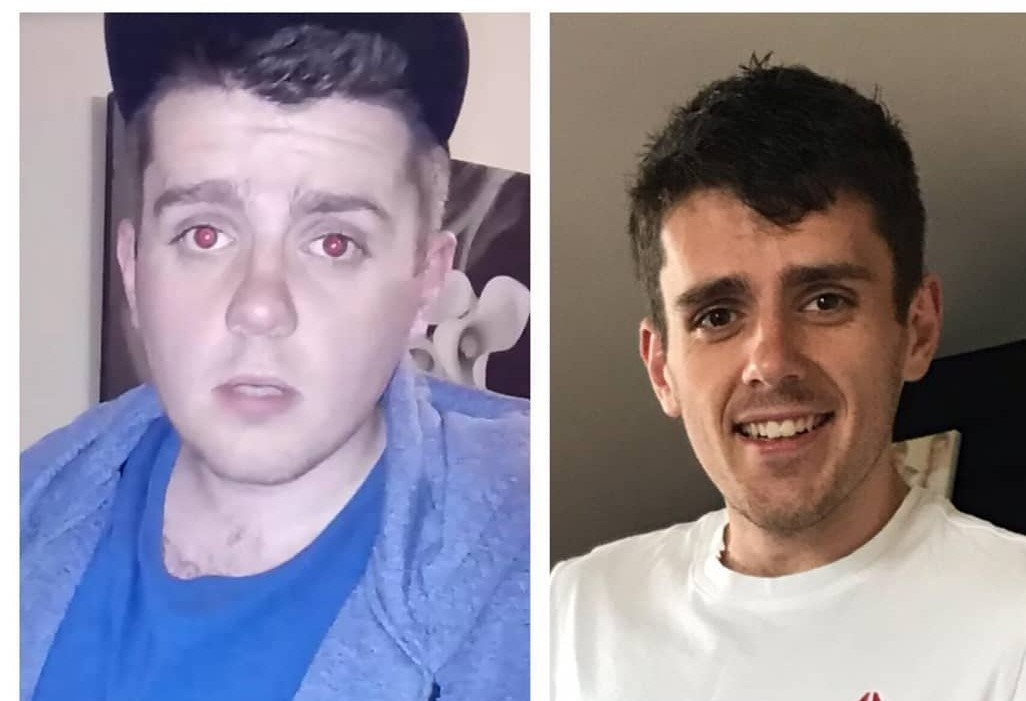
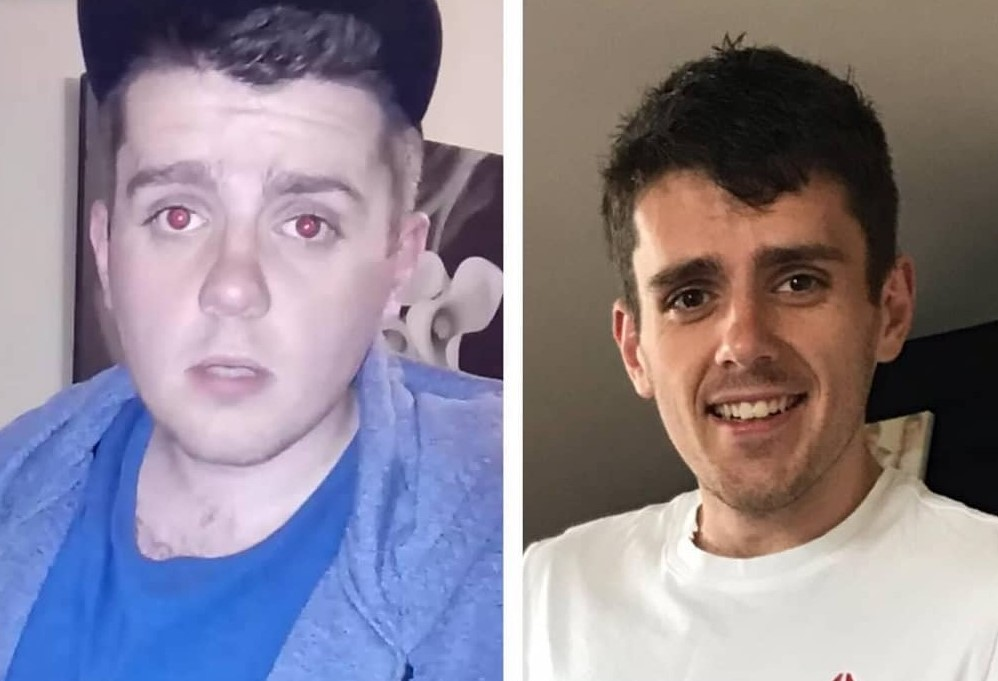
adding responsiveness to about section

diff --git a/index.html b/index.html
@@ -11,7 +11,7 @@
 </head>
 <body>
 
-    <nav class="navbar navbar-expand-lg navbar-light fixed-top">
+    <nav class="navbar navbar-expand-lg navbar-dark fixed-top">
             <a class="navbar-brand" href="#">
                 <img src="assets/images/logo.png" id="logo" alt="weightlifter image">
             </a>
@@ -52,8 +52,8 @@
     <section class="about-me">
         <div class="container">
             <div class="row">
-                <div class="col-sm-12 col-md-6">
-                    <h2 class="about-me-sub">About Me</h2>
+                <div class="col-sm-12 col-md-6 text-center about-sub">
+                    <h2 class="about-me-head">About Me</h2>
 					<hr class="blue-line">
 					<p class="white-text">Growing up I always struggled with my weight making my way through school and college. I always wondered why did I look different. 
                         When I looked in the mirror I wasnt happy with the person looking back at me. My self confidence was at a real low and I wasn’t happy with the way
@@ -61,16 +61,16 @@
                         wanted to help others on their journey too. The hardset step is the first one!
 					</p>
 				</div>
-				<div class="col-sm-12 col-md-6">
-                    <img src="/assets/images/diff.jpg" alt="" class="img-fluid aboutpic">
+				<div class="col-sm-12 col-md-6 about-sub">
+                    <img src="/assets/images/diff.jpg" alt="" class="img-fluid aboutpic diffpic">
                     
 
 				</div>
-				<div class="col-sm-12 col-md-6">
+				<div class="col-sm-12 col-md-6 about-sub">
 					<img src="/assets/images/ben.jpg" alt="" class="img-fluid aboutpic benpic">
 				</div>
-				<div class="col-sm-12 col-md-6">
-					<h2 class="about-me-sub">Qualifications</h2>
+				<div class="col-sm-12 col-md-6 qual text-center about-sub">
+					<h2 class="about-me-head">Qualifications</h2>
 					<hr class="blue-line">
 					<ul class="white-text">
                         <li> ITEC level 3 Personal Training</li>
@@ -78,7 +78,15 @@
                         <li> Crossfit Programming Certificate</li>
                         <li> Crossfit Level 1 Certified Coach</li>
                     </ul>
-				</div>
+                    <h2 class="about-me-head">Qualifications</h2>
+					<hr class="blue-line">
+					<ul class="white-text">
+                        <li> ITEC level 3 Personal Training</li>
+                        <li> Health and Safety Certificate</li>
+                        <li> Crossfit Programming Certificate</li>
+                        <li> Crossfit Level 1 Certified Coach</li>
+                    </ul>
+                </div>
             </div>
         </div>
 		

diff --git a/assets/css/style.css b/assets/css/style.css
@@ -44,12 +44,12 @@ body{
 }
 
 /*-------------------------Navbar */
-.navbar-light {
+.navbar-dark {
     background:transparent !important;
     transition:0.75s ease;
 }
 
-.navbar-light.scrolled{
+.navbar-dark.scrolled{
     background:rgba(16, 17, 17, 0.3) !important;
 } 
 
@@ -75,7 +75,7 @@ body{
     bottom: 0;
     left: 0;
     filter: grayscale(20%);
-    height: 100vh;
+    height: 90vh;
     display: flex;
     align-items: center;
     justify-content: center;
@@ -109,7 +109,7 @@ body{
     background-color: #212529;
 }
 
-.about-me-sub {
+.about-me-head {
     color: #ffffff;
     font-weight: 300;
 }
@@ -129,6 +129,8 @@ body{
 }
 
 /*-----Media Queries------*/
+
+/*-----IPhone5------*/
 @media screen and (min-width: 320px) {
 
     .navbar-brand {
@@ -139,13 +141,28 @@ body{
         font-size: 2.5rem;
         margin: 200px 0 0 0;
     }
-}
 
+    .about-me {
+        padding: 30px 15px;
+    }
+
+    .aboutpic{
+        padding-bottom: 50px;
+        padding-left: 0px;
+        padding-right: 0px;
+    }
+
+    .qual{
+        padding:0;
+    }
+}    
+
+/*-----Larger Mobiles------*/
 @media screen and (min-width: 360px) {
 
 
 }
-
+/*-----Tablets------*/
 @media screen and (min-width: 768px) {
 
     .white-text {
@@ -155,17 +172,22 @@ body{
     .navbar-brand {
         font-size: 1.15rem;
     }
+
+    .aboutpic{
+        padding-top: 30px;
+    }
 }
 
+/*-----Desktop------*/
 @media screen and (min-width: 992px) {
 
-    /* Landing page main text for medium screens*/
+    
 
     #hero-text {
         font-size: 4.2rem;
     }
     .navbar-nav{
-        font-size: 1.5rem;
+        font-size: 1.2rem;
     }
 
     .navbar-expand-lg .navbar-nav .nav-link {
@@ -177,4 +199,18 @@ body{
         height:150px; 
         width:200px; 
     }
+
+    .benpic{
+        height:600px;
+    }
+
+    .about-me h2{
+        padding-top: 40px;
+    }
+
+    .about-sub{
+        padding-right: 50px;
+        padding-left: 50px;
+    }
+
 }
